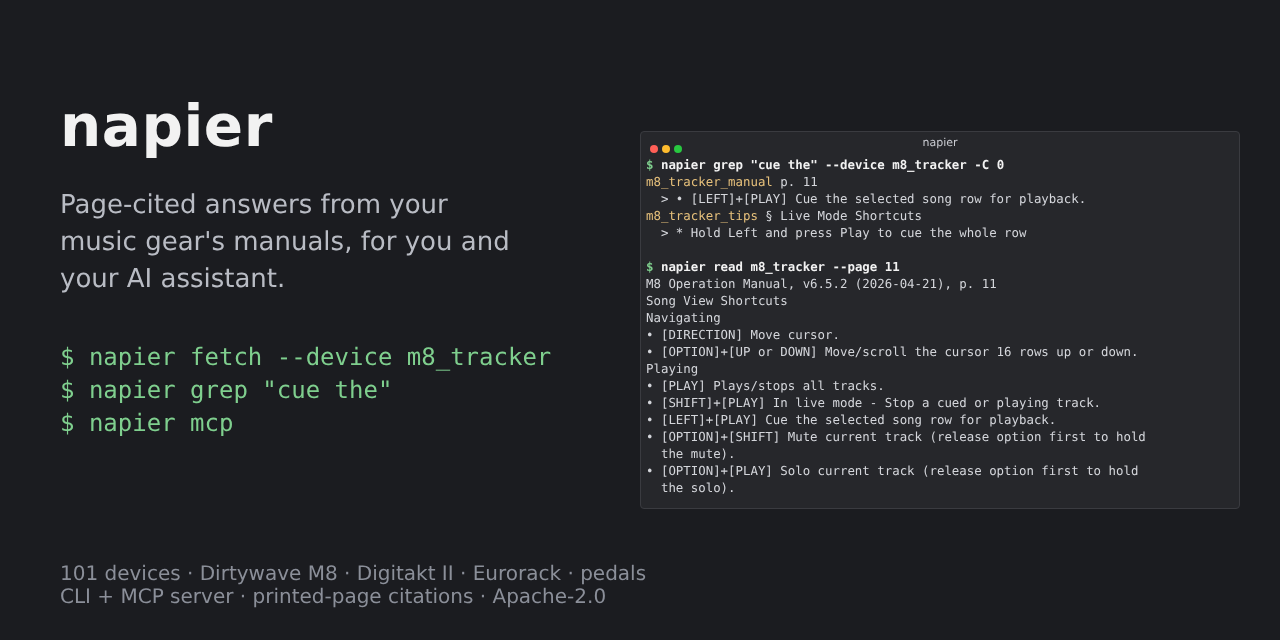
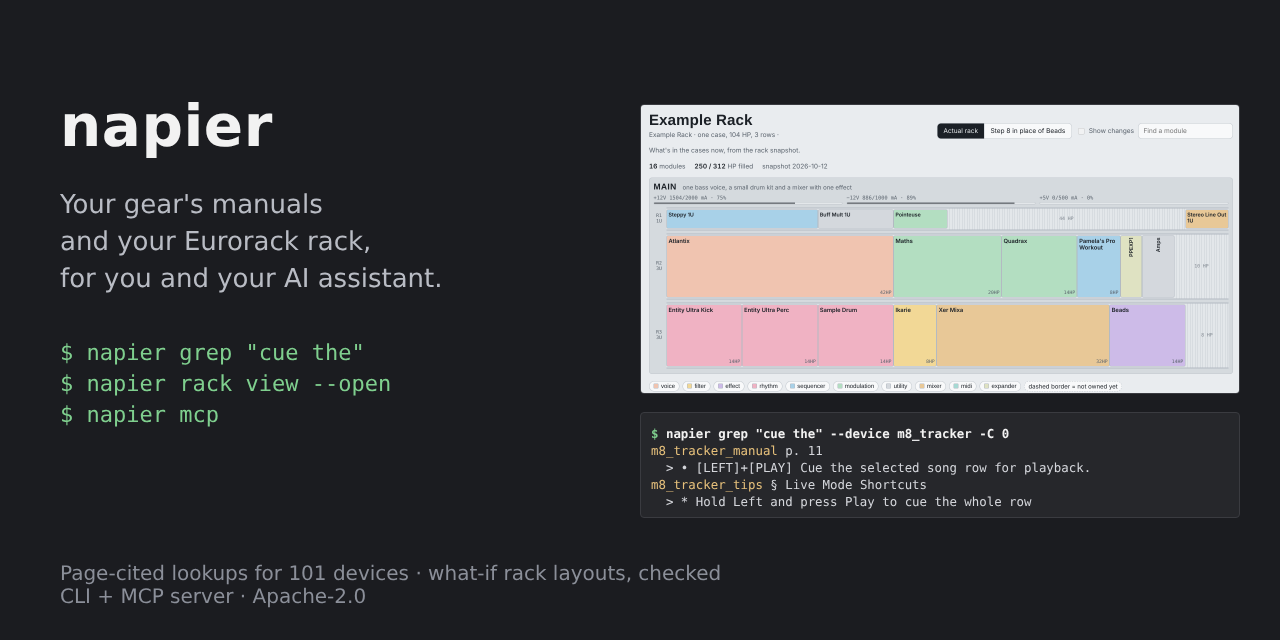
README: the rack planner gets equal billing (#9)
The README now opens with both halves: "Look it up" with the grep demo and "Plan the rack" with the
scenario screenshot, then how an assistant uses both through MCP. The quick start draws the example
rack, "What you get" lists what the rack commands do, and "Your rack" is a setup walkthrough.
docs/mcp.md shows a rack question from the assistant's side, with real output from the example
rack. The package summary, CITATION abstract and social preview cover the rack too.

Claude-Session: https://claude.ai/code/session_01WGpRr3TcjVw69jAR72XCtp

diff --git a/docs/images/social-preview.html b/docs/images/social-preview.html
@@ -4,49 +4,34 @@
        python -c "from playwright.sync_api import sync_playwright as s; p=s().start(); b=p.chromium.launch();
        g=b.new_page(viewport={'width':1280,'height':640}); g.goto('file://'+__import__('os').path.abspath(
        'docs/images/social-preview.html')); g.screenshot(path='docs/images/social-preview.png'); b.close(); p.stop()"
-     then upload the PNG in Settings. The terminal text is real output from `napier grep` and `napier read`. -->
+     then upload the PNG in Settings. The rack is docs/images/example-rack.png, and the terminal
+     text is real `napier grep` output. -->
 <html><head><meta charset="utf-8"><style>
 *{margin:0;padding:0;box-sizing:border-box}
 body{width:1280px;height:640px;background:#1b1c20;font-family:"DejaVu Sans",sans-serif;color:#f2f2f2;position:relative;overflow:hidden}
-.left{position:absolute;left:60px;top:92px;width:560px}
+.left{position:absolute;left:60px;top:92px;width:520px}
 h1{font-size:58px;font-weight:bold;letter-spacing:.5px}
-.tag{max-width:470px;margin-top:26px;font-size:26px;line-height:37px;color:#b9bcc4}
-.cmds{margin-top:44px;font-family:"DejaVu Sans Mono",monospace;font-size:24px;line-height:33px;color:#7fcf8e;white-space:pre}
+.tag{max-width:500px;margin-top:26px;font-size:26px;line-height:37px;color:#b9bcc4}
+.cmds{margin-top:40px;font-family:"DejaVu Sans Mono",monospace;font-size:22px;line-height:31px;color:#7fcf8e;white-space:pre}
 .foot{position:absolute;left:60px;bottom:32px;font-size:20px;line-height:23px;color:#8b8f99}
-.term{position:absolute;left:640px;top:131px;width:600px;height:378px;background:#26272b;border:1px solid #3a3b40;border-radius:4px;overflow:hidden}
-.bar{height:22px;position:relative;text-align:center;font-size:11px;line-height:22px;color:#c9cbd1}
-.dots{position:absolute;left:9px;top:7px}.dots span{display:inline-block;width:8px;height:8px;border-radius:50%;margin-right:4px}
-pre{font-family:"DejaVu Sans Mono",monospace;font-size:12.4px;line-height:17px;color:#d4d6db;padding:2px 4px 0 5px;white-space:pre}
-.p{color:#7fcf8e;font-weight:bold}.c{color:#f2f2f2;font-weight:bold}.s{color:#e6c07b}.d{color:#8b8f99}
+.rack{position:absolute;left:640px;top:104px;width:600px;height:290px;overflow:hidden;border-radius:4px;border:1px solid #3a3b40}
+.rack img{width:600px;display:block}
+.term{position:absolute;left:640px;top:412px;width:600px;height:106px;background:#26272b;border:1px solid #3a3b40;border-radius:4px;overflow:hidden}
+pre{font-family:"DejaVu Sans Mono",monospace;font-size:12.4px;line-height:17px;color:#d4d6db;padding:12px 10px 0 10px;white-space:pre}
+.p{color:#7fcf8e;font-weight:bold}.c{color:#f2f2f2;font-weight:bold}.s{color:#e6c07b}
 </style></head><body>
 <div class="left">
 <h1>napier</h1>
-<div class="tag">Page-cited answers from your music gear's manuals, for you and your AI assistant.</div>
-<div class="cmds">$ napier fetch --device m8_tracker
-$ napier grep "cue the"
+<div class="tag">Your gear's manuals<br>and your Eurorack rack,<br>for you and your AI assistant.</div>
+<div class="cmds">$ napier grep "cue the"
+$ napier rack view --open
 $ napier mcp</div>
 </div>
-<div class="term"><div class="bar"><div class="dots"><span style="background:#ff5f57"></span><span style="background:#febc2e"></span><span style="background:#28c840"></span></div>napier</div>
-<pre><span class="p">$</span> <span class="c">napier grep "cue the" --device m8_tracker -C 0</span>
+<div class="rack"><img src="example-rack.png" alt=""></div>
+<div class="term"><pre><span class="p">$</span> <span class="c">napier grep "cue the" --device m8_tracker -C 0</span>
 <span class="s">m8_tracker_manual</span> p. 11
   &gt; • [LEFT]+[PLAY] Cue the selected song row for playback.
 <span class="s">m8_tracker_tips</span> § Live Mode Shortcuts
-  &gt; * Hold Left and press Play to cue the whole row
-
-<span class="p">$</span> <span class="c">napier read m8_tracker --page 11</span>
-M8 Operation Manual, v6.5.2 (2026-04-21), p. 11
-Song View Shortcuts
-Navigating
-• [DIRECTION] Move cursor.
-• [OPTION]+[UP or DOWN] Move/scroll the cursor 16 rows up or down.
-Playing
-• [PLAY] Plays/stops all tracks.
-• [SHIFT]+[PLAY] In live mode - Stop a cued or playing track.
-• [LEFT]+[PLAY] Cue the selected song row for playback.
-• [OPTION]+[SHIFT] Mute current track (release option first to hold
-  the mute).
-• [OPTION]+[PLAY] Solo current track (release option first to hold
-  the solo).
-</pre></div>
-<div class="foot">101 devices · Dirtywave M8 · Digitakt II · Eurorack · pedals<br>CLI + MCP server · printed-page citations · Apache-2.0</div>
+  &gt; * Hold Left and press Play to cue the whole row</pre></div>
+<div class="foot">Page-cited lookups for 101 devices · what-if rack layouts, checked<br>CLI + MCP server · Apache-2.0</div>
 </body></html>

diff --git a/README.md b/README.md
@@ -1,12 +1,18 @@
 # napier
 
-Search your music gear's manuals and get the printed page number with every answer. Your AI
-assistant can use it too.
+Your gear's manuals and your Eurorack rack, in one place you and your AI assistant can work from.
 
-Ask an assistant how to cue a song row on the M8 and you'll get a confident answer with no source.
-napier keeps the manuals, firmware changelogs and a few community docs on your machine, and every
-hit tells you the document, its version and the printed page. It runs as a command-line tool and as
-an MCP server, so Claude and other assistants can run the same lookups and cite the page.
+[![CI](https://github.com/bvk7787/napier/actions/workflows/ci.yml/badge.svg)](https://github.com/bvk7787/napier/actions/workflows/ci.yml)
+![Python 3.11 | 3.12 | 3.13 | 3.14](https://img.shields.io/badge/python-3.11%20%7C%203.12%20%7C%203.13%20%7C%203.14-blue)
+[![License: Apache-2.0](https://img.shields.io/badge/license-Apache--2.0-blue)](https://github.com/bvk7787/napier/blob/main/LICENSE)
+[![PyPI](https://img.shields.io/pypi/v/napier)](https://pypi.org/project/napier/)
+[![OpenSSF Scorecard](https://api.scorecard.dev/projects/github.com/bvk7787/napier/badge)](https://scorecard.dev/viewer/?uri=github.com/bvk7787/napier)
+![Status: alpha](https://img.shields.io/badge/status-alpha-orange)
+
+## Look it up
+
+napier keeps the manuals, firmware changelogs and a few community docs for your gear on your
+machine. Every answer tells you the document, its version and the page number printed on the page.
 
 ```
 $ napier grep "cue the" --device m8_tracker -C 0
@@ -19,12 +25,26 @@ m8_tracker_tips § Live Mode Shortcuts
 The first hit is page 11 of the M8 Operation Manual (v6.5.2). The second comes from the community
 tips doc and is labeled that way.
 
-[![CI](https://github.com/bvk7787/napier/actions/workflows/ci.yml/badge.svg)](https://github.com/bvk7787/napier/actions/workflows/ci.yml)
-![Python 3.11 | 3.12 | 3.13 | 3.14](https://img.shields.io/badge/python-3.11%20%7C%203.12%20%7C%203.13%20%7C%203.14-blue)
-[![License: Apache-2.0](https://img.shields.io/badge/license-Apache--2.0-blue)](https://github.com/bvk7787/napier/blob/main/LICENSE)
-[![PyPI](https://img.shields.io/pypi/v/napier)](https://pypi.org/project/napier/)
-[![OpenSSF Scorecard](https://api.scorecard.dev/projects/github.com/bvk7787/napier/badge)](https://scorecard.dev/viewer/?uri=github.com/bvk7787/napier)
-![Status: alpha](https://img.shields.io/badge/status-alpha-orange)
+## Plan the rack
+
+Keep your Eurorack rack as YAML next to the manuals: what's in each case, what each module is for
+and how much power each case can supply. Sketch what-if layouts, and napier checks each one for HP,
+power per rail, case seams and modules that ended up far from the ones they pair with, then draws it
+next to the rack you have.
+
+![The example rack with Step 8 in place of Beads: one case, power per rail, Step 8 highlighted as new and Beads listed as leaving](https://github.com/bvk7787/napier/raw/main/docs/images/example-scenario.png)
+
+That's the example rack with Step 8 in place of Beads. The -12V rail goes from 89% to 92% of the
+supply, nothing overlaps, and Beads is listed as leaving. Power draw and jack lists come from the
+manuals, with the page they're on.
+
+## With an assistant
+
+napier is also an MCP server, so Claude and other assistants can use both halves. Ask how to cue a
+song row and it quotes page 11. Ask what in your rack takes a clock and it lists the matching jacks
+from the manuals. Ask whether Step 8 should replace Beads and it can read what each module is for
+and what you decided last time, propose a layout as a scenario file, and let napier check and draw
+it before you move anything.
 
 It's built for people with synths, grooveboxes and Eurorack who don't mind a terminal and git. The
 source list covers 101 devices: mostly Eurorack, plus the Dirtywave M8, Elektron Digitakt II, OXI
@@ -45,10 +65,13 @@ napier ingest --text-only --device m8_tracker
 napier grep "cue the" --device m8_tracker
 napier read m8_tracker --page 11           # the whole printed page
 napier facts list --device m8_tracker      # what's been checked, and how far
+
+napier rack view --open                    # the example rack and its what-if layout, in your browser
+napier rack scenarios                      # the checks behind it
 ```
 
-The fetch downloads three files and takes 10 to 20 seconds. If your shell can't find `napier`, run
-`uv tool update-shell` and open a new terminal.
+The fetch downloads three files and takes 10 to 20 seconds. The rack commands need no downloads. If
+your shell can't find `napier`, run `uv tool update-shell` and open a new terminal.
 
 napier runs from its clone. The sources, facts and specs are files in the repo, and `-e` keeps the
 installed command pointed at them.
@@ -56,7 +79,7 @@ installed command pointed at them.
 Without uv: `python3 -m venv .venv && .venv/bin/pip install -e .` with Python 3.11 or later, then
 run `.venv/bin/napier`.
 
-## Search and assistants
+## Add search and the MCP server
 
 For questions in your own words ("how do I stop the delay feeding back"), install the `index` extra.
 The MCP server needs the `mcp` extra. A reinstall replaces the previous one, so list every extra you
@@ -84,6 +107,8 @@ assistant's side.
 
 ## What you get
 
+For looking things up:
+
 - `grep` and `read` find exact text, like button combos and parameter names, and return whole pages
   or sections. There's no model involved, and a lookup takes a fraction of a second.
 - `search` handles open questions. It combines keyword and vector search, reranks the results, and
@@ -99,7 +124,21 @@ assistant's side.
   answers, so treat this as a regression test.
 - `napier source check` re-downloads each source and reports what changed. After you apply an
   update, `napier facts recheck` lists the facts whose quoted text moved or disappeared.
-- A Eurorack rack planner ([Your rack](#your-rack)).
+
+For your rack:
+
+- `napier rack view --open` draws the rack and every what-if layout as one HTML page that works
+  offline. You can switch between layouts, highlight what changed, find a module, and see power per
+  rail for each case.
+- `napier rack scenarios` checks the rack and each layout for overlaps, modules crossing a case
+  seam, 1U modules in 3U rows, power per case against its supply, partner modules more than 20 cm
+  apart, and free space split into slivers.
+- Power draw and jack lists come from the manuals (`specs/`, with the page), and `napier rack check`
+  shows where your rack's power figures disagree with the manual.
+- `usage.yaml` records what each module is for and your placement rules. `challenges.yaml` logs each
+  suggested change and what you decided, so a rejected idea doesn't keep coming back.
+- Cases can have any mix of 1U and 3U rows, and several cases can sit in a grid. The rack itself
+  comes from a file you write or, through a plug-in, from another tool.
 
 ## Compared with NotebookLM or pasting the PDF
 
@@ -165,16 +204,20 @@ them easy to spot in the diff.
 
 ## Your rack
 
-The rack planner is for Eurorack. Your rack lives in YAML next to the manuals, along with what each
-module is for, each case's power budget and any what-if layouts. `napier rack scenarios` checks
-those layouts for overlaps, case seams, power, and modules that ended up far from their partners.
-`napier rack view --open` draws all of it as a single HTML page that works offline.
+The rack commands show the example rack until you set up your own:
 
-![The example rack with a what-if layout: Step 8 replaces Beads, power per rail, one module leaving](https://github.com/bvk7787/napier/raw/main/docs/images/example-scenario.png)
+```bash
+mkdir -p local && cp -r examples/racks local/racks
+$EDITOR local/racks/layout.yaml            # your modules: slug, HP, power, position ("row 2, hp 43")
+$EDITOR local/racks/devices.yaml           # your cases: rows, how they're arranged, off-rack modules
+napier rack sync                           # writes the snapshot; reports moves and overlaps
+napier rack view --open
+```
 
-Until you set up your own, the rack commands show the example rack.
-[docs/rack.md](https://github.com/bvk7787/napier/blob/main/docs/rack.md) covers setup and how to
-write a plug-in that reads your rack from another tool.
+Then describe what each module is for in `usage.yaml`, and write what-if layouts in `scenarios/`, by
+hand or with your assistant.
+[docs/rack.md](https://github.com/bvk7787/napier/blob/main/docs/rack.md) covers the file formats and
+how to write a plug-in that reads your rack from another tool.
 
 ## Your own data
 

diff --git a/docs/mcp.md b/docs/mcp.md
@@ -127,6 +127,32 @@ From that it can answer: hold **LEFT** and press **PLAY** (M8 Operation Manual v
 can also note that the community tips doc says this works on smaller selections, labeled as a
 community report.
 
+Rack questions work the same way. On the example rack, asking what takes a clock calls:
+
+```
+rack(jack_type="clock", jack_dir="in")
+```
+
+and gets each matching module with its jacks and, where the manual gives one, the page (abridged;
+Quadrax and Beads also match):
+
+```json
+{"modules": [
+  {"name": "Pamela's Pro Workout", "owned": true,
+   "jacks": [{"name": "Clk", "dir": "in", "type": "clock", "also": ["cv", "trigger"], "page": 20}]},
+  {"name": "Steppy 1U", "owned": true,
+   "jacks": [{"name": "CLOCK (CLK) IN", "dir": "in", "type": "clock", "page": 11}]},
+  {"name": "Step 8", "owned": false,
+   "jacks": [{"name": "STEP IN", "dir": "in", "type": "trigger", "also": ["clock"], "page": 3}]}],
+ "case_power": {"main": {"pct": {"plus12": 75, "minus12": 89, "plus5": 0}}}}
+```
+
+The same result carries your usage notes, placement rules and the challenge log, so the assistant
+can suggest a change with your earlier decisions in view. Wishlist modules come back with
+`owned: false`, and the tool tells the assistant never to describe them as owned. A suggested layout
+becomes a file in `racks/scenarios/`, which `napier rack scenarios` checks and `napier rack view`
+draws next to the current rack.
+
 ## Facts written by an assistant
 
 `add_fact` and `verify_fact` write to the same YAML files as `napier facts add` and

diff --git a/CHANGELOG.md b/CHANGELOG.md
@@ -9,6 +9,12 @@ the CLI or the data formats).
 
 ### Changed
 
+- The README gives the rack planner equal billing with lookups: a "Plan the rack" section with the
+  scenario screenshot near the top, rack commands in the quick start, and what the rack commands do.
+  docs/mcp.md shows a rack question from the assistant's side.
+
+### Changed
+
 - CI and the release workflow install through uv from `uv.lock`, checking every package's hash,
   with uv and twine pinned. The lockfile now has to match `pyproject.toml` for CI to pass.
 
